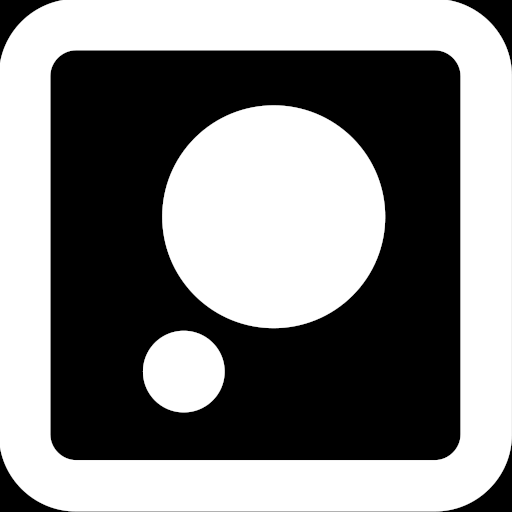
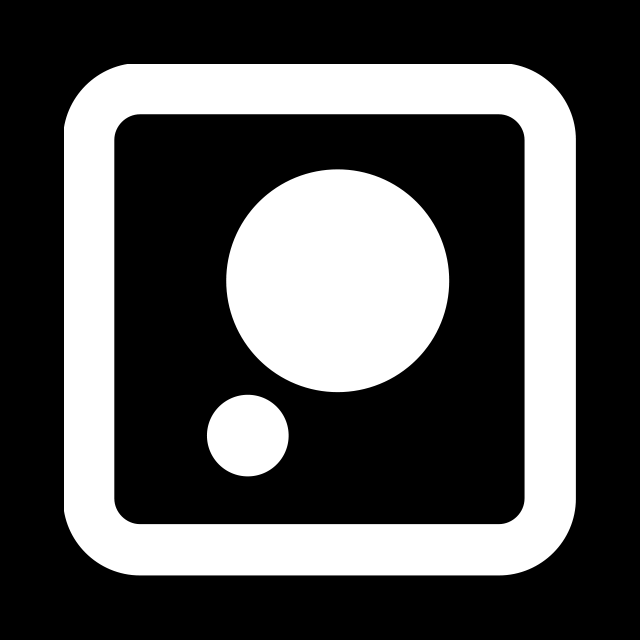
VIC-11825 Python SDK: increase black border on custom markers (#4327)
Custom marker images are from Jesse.

From Andrew Stein:
You basically want the thickness of the dark margin to be at least as thick as the rounded-rectangle
it all scales together. So if you have a bigger custom marker printed, the dark region should scale up too.

Also fixes
* VIC-11758 so that for custom object, object appeared and disappeared events fire accurately.
* warnings on building docs

diff --git a/tools/sdk/vector-sdk/examples/tutorials/12_custom_objects.py b/tools/sdk/vector-sdk/examples/tutorials/12_custom_objects.py
@@ -36,13 +36,13 @@ from anki_vector.objects import CustomObjectMarkers, CustomObjectTypes
 def handle_object_appeared(event_type, event):
     # This will be called whenever an EvtObjectAppeared is dispatched -
     # whenever an Object comes into view.
-    print(f"Vector started seeing a:\n{event.obj}")
+    print(f"--------- Vector started seeing an object --------- \n{event.obj}")
 
 
 def handle_object_disappeared(event_type, event):
     # This will be called whenever an EvtObjectDisappeared is dispatched -
     # whenever an Object goes out of view.
-    print(f"Vector stopped seeing a:\n{event.obj}")
+    print(f"--------- Vector stopped seeing an object --------- \n{event.obj}")
 
 
 async def custom_objects():
@@ -113,9 +113,9 @@ def main():
             print("One or more object definitions failed!")
             return
 
-        print("\n\nShow the above markers to Vector and you will see the related 3d objects "
-              "display in Vector's 3d_viewer window. You will also see print messages "
-              "every time a custom object enters or exits Vector's view.\n\n")
+        print("\n\nShow a marker specified in the Python script to Vector and you will see the related 3d objects\n"
+              "display in Vector's 3d_viewer window. You will also see messages print every time a custom object\n"
+              "enters or exits Vector's view. Markers can be found from the docs under CustomObjectMarkers.\n\n")
 
         viewer = opengl_viewer.OpenGLViewer(robot=robot)
         viewer.run(custom_objects)

diff --git a/tools/sdk/vector-sdk/anki_vector/opengl.py b/tools/sdk/vector-sdk/anki_vector/opengl.py
@@ -142,7 +142,7 @@ class ResourceManager():
         the resource manager. The context that these resources are files on disk is similarly encapsulated.
         All client classes only need match keys with returned data.
 
-        :param *args: string keys for identifying the asset.
+        :param args: string keys for identifying the asset.
         """
         resource_path = '/'.join(map(str, args))  # Note: Deliberately not os.path.join, for use with pkg_resources
         return resource_stream(self._context_id, resource_path)
@@ -569,7 +569,7 @@ class PrecomputedView():
 
         :param name: the key this pre-computed geometry can be draw from.
         :param f: the function used to create the 3d geometry.
-        :param *args: any parameters the supplied function is expecting.
+        :param args: any parameters the supplied function is expecting.
         """
         new_gl_list = glGenLists(1)  # pylint: disable=assignment-from-no-return
         glNewList(new_gl_list, GL_COMPILE)

diff --git a/tools/sdk/vector-sdk/anki_vector/objects.py b/tools/sdk/vector-sdk/anki_vector/objects.py
@@ -55,6 +55,10 @@ from .events import Events
 
 from .messaging import protocol
 
+#: Length of time in seconds to go without receiving an observed event before
+#: assuming that Vector can no longer see an object.
+OBJECT_VISIBILITY_TIMEOUT = 0.8
+
 
 class EvtObjectObserved():  # pylint: disable=too-few-public-methods
     """Triggered whenever an object is visually identified by the robot.
@@ -119,11 +123,6 @@ class EvtObjectFinishedMove():  # pylint: disable=too-few-public-methods
     def __init__(self, obj, move_duration: float):
         self.obj = obj
         self.move_duration = move_duration
-
-
-#: Length of time in seconds to go without receiving an observed event before
-#: assuming that Vector can no longer see an object.
-OBJECT_VISIBILITY_TIMEOUT = 0.4
 
 
 class ObservableObject(util.Component):

diff --git a/tools/sdk/vector-sdk/examples/tutorials/11_face_event_subscription.py b/tools/sdk/vector-sdk/examples/tutorials/11_face_event_subscription.py
@@ -44,7 +44,8 @@ def main():
                 said_text = True
                 await robot.say_text("I see a face!")
                 evt.set()
-        # If necessary, Move Vector's Head and Lift to make it easy to see his face
+
+        # If necessary, move Vector's Head and Lift to make it easy to see his face
         robot.behavior.set_head_angle(degrees(50.0))
         robot.behavior.set_lift_height(0.0)
 

diff --git a/tools/sdk/vector-sdk/examples/tutorials/06_face_image.py b/tools/sdk/vector-sdk/examples/tutorials/06_face_image.py
@@ -34,7 +34,7 @@ def main():
     args = anki_vector.util.parse_command_args()
 
     with anki_vector.Robot(args.serial) as robot:
-        # If necessary, Move Vector's Head and Lift to make it easy to see his face
+        # If necessary, move Vector's Head and Lift to make it easy to see his face
         robot.behavior.set_head_angle(degrees(50.0))
         robot.behavior.set_lift_height(0.0)
 

diff --git a/tools/sdk/vector-sdk/examples/tutorials/07_dock_with_cube.py b/tools/sdk/vector-sdk/examples/tutorials/07_dock_with_cube.py
@@ -34,7 +34,7 @@ def main():
     with anki_vector.Robot(args.serial) as robot:
         robot.behavior.drive_off_charger()
 
-        # If necessary, Move Vector's Head and Lift down
+        # If necessary, move Vector's Head and Lift down
         robot.behavior.set_head_angle(degrees(-5.0))
         robot.behavior.set_lift_height(0.0)
 
